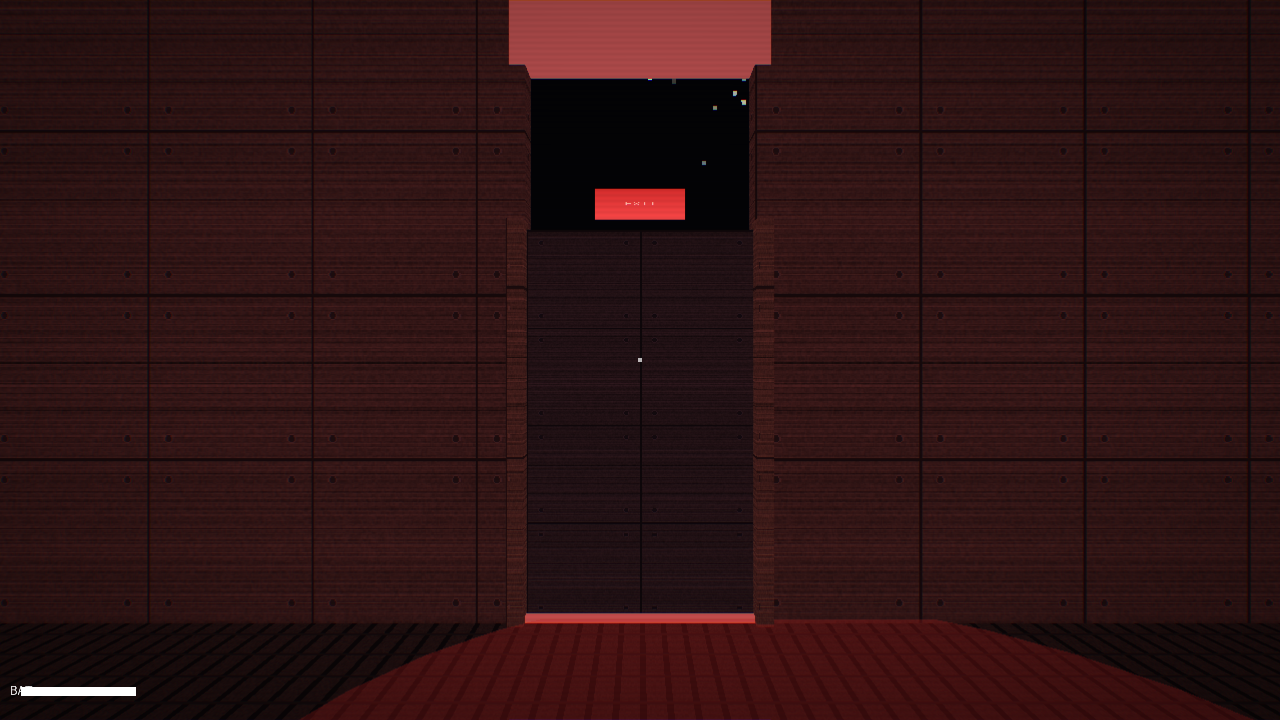
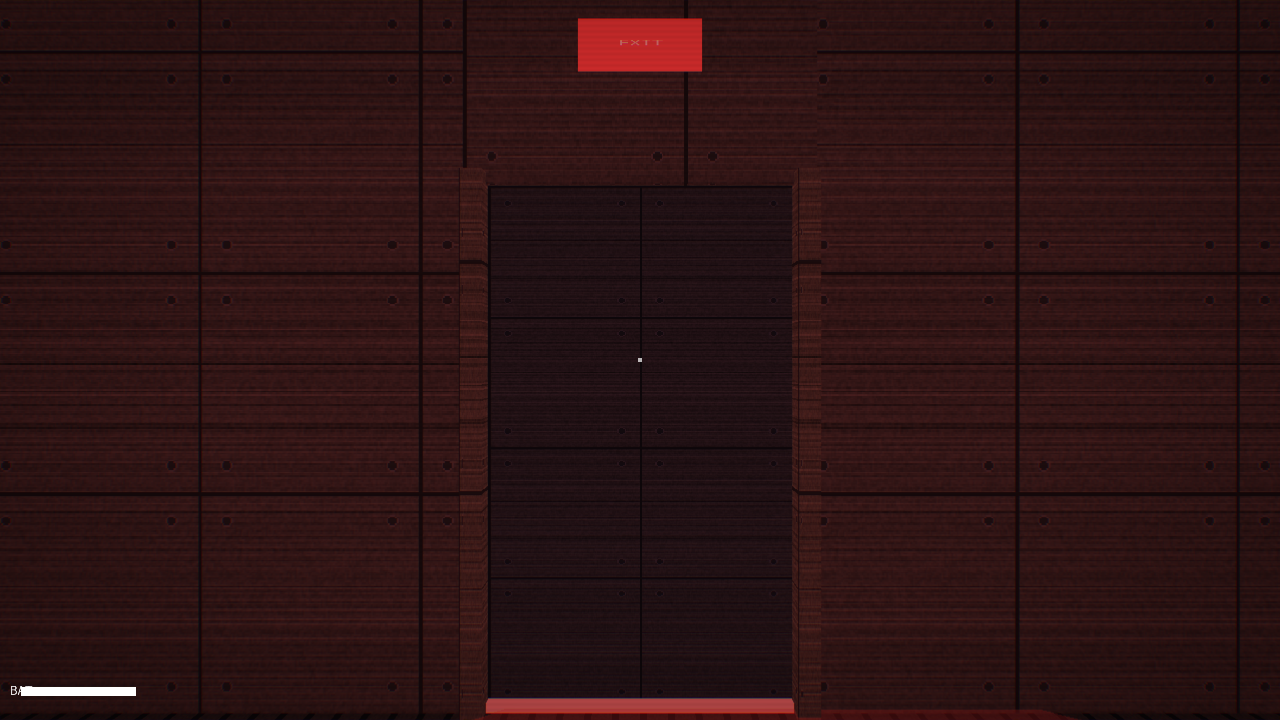
Fix non-collidable entry doors + Act 1 door gap
Issues found in this pass:

1. Act 1 exit door had a 1.0-unit-tall gap between the top of the
   door panel (y=2.4) and the bottom of the header (y=3.4).  The
   header was sized 0.6 units tall at y=3.7, leaving an open hole
   in the wall above the door.  Fixed by making the header span
   the full y=2.4..4.0 region (1.6 tall) so the wall is solid above
   the door.  The 'EXIT' plate moved up to y=3.0 so it sits on the
   visible header face.

2. The 'sealed' entry doors I added in Acts 2, 3, and 4 were
   visible-only, no collider.  Player could walk through them out
   of the level into nothing.  Added collider='box' to each entry
   door panel.

3. Locked cabin doors in Act 2 had a no-op 'Door X' interaction
   that did nothing when the player pressed E on the panel.  Now
   it surfaces an examine prompt directing the player to the wall
   keypad.

Smoke-tested all four acts and confirmed:
  - Act 1 -> Act 2 -> Act 3 -> Act 4 transitions all fire
  - Each scene rebuilds cleanly without entity-count drift
  - Act 1 screenshot now shows a complete door with no gap

diff --git a/scenes/act2_corridor.py b/scenes/act2_corridor.py
@@ -199,8 +199,17 @@ def _make_door(label, gap_x, gap_z, side, color_door, created,
             open_door()
         make_interactable(keypad, "Enter code", "keypad",
                           code=code, on_unlock=unlock_cb)
+
+        def hint_use_keypad():
+            """Tell the player to use the wall keypad."""
+            from systems.interaction import get_manager as _im
+            mgr = _im()
+            if mgr is not None:
+                mgr._examine(
+                    f"{label} cabin door locked.  Use the wall keypad.",
+                    3.0)
         make_interactable(door, "Door " + label, "trigger_event",
-                          callback=lambda: None)
+                          callback=hint_use_keypad)
     else:
         make_interactable(door, "Open " + label, "trigger_event",
                           callback=open_door)
@@ -319,14 +328,14 @@ def build(game):
                           color=color.rgb(60, 65, 75),
                           collider="box"))
     # Sealed door panel where the player entered from Act 1 (north-facing).
-    # Just a visual, non-interactive, so it looks like a real doorway rather
-    # than a gaping hole in the wall.
+    # Visible AND collidable so the player can't backtrack into the void.
     entry_door = Entity(model="cube",
                         scale=(1.4, 2.4, 0.10),
                         position=(0, 1.2, -6.05),
                         color=color.rgb(70, 70, 85),
                         texture=visuals.make_metal_panel(),
-                        texture_scale=(0.7, 1.2))
+                        texture_scale=(0.7, 1.2),
+                        collider="box")
     created.append(entry_door)
     # Inset detail on the player-facing side (+z)
     created.append(Entity(parent=entry_door, model="cube",

diff --git a/scenes/act1_cryo.py b/scenes/act1_cryo.py
@@ -210,11 +210,14 @@ def build(game):
                               texture=visuals.make_metal_panel(),
                               texture_scale=(north_seg_w / 2, 2),
                               collider="box"))
-    # Door frame caps above the opening
+    # Door header - fills the entire space from door top (y=2.4) up to the
+    # wall top (y=4.0) so there's no gap above the door.
     created.append(Entity(model="cube",
-                          scale=(north_gap + 0.2, 0.6, 0.2),
-                          position=(0, 3.7, 8),
+                          scale=(north_gap + 0.2, 1.6, 0.2),
+                          position=(0, 3.2, 8),
                           color=color.rgb(110, 90, 90),
+                          texture=visuals.make_metal_panel(),
+                          texture_scale=((north_gap + 0.2) / 2, 0.8),
                           collider="box"))
     # Visible jambs (side frames) on the room-side of the doorway
     for dx in (-0.75, 0.75):
@@ -224,10 +227,10 @@ def build(game):
                               color=color.rgb(140, 110, 100),
                               texture=visuals.make_metal_panel(),
                               texture_scale=(0.4, 1.2)))
-    # EXIT label above the door
+    # EXIT label - hangs on the room-facing face of the header
     exit_plate = Entity(model="cube",
-                        scale=(0.55, 0.18, 0.04),
-                        position=(0, 2.55, 7.92),
+                        scale=(0.55, 0.22, 0.04),
+                        position=(0, 3.0, 7.85),
                         color=color.rgb(220, 50, 50))
     created.append(exit_plate)
     Text(parent=exit_plate, text="EXIT",

diff --git a/scenes/act4_array.py b/scenes/act4_array.py
@@ -313,13 +313,15 @@ def build(game):
                           color=color.rgb(55, 60, 70),
                           collider="box"))
     # Sealed entry door at the south opening - the door the player walked
-    # through from Act 3.  Visible-only, non-interactive.
+    # through from Act 3.  Collidable so the player can't backtrack out of
+    # the array room into nothing.
     entry_door4 = Entity(model="cube",
                          scale=(ENTRY_W, 2.4, 0.10),
                          position=(0, 1.2, -rd / 2 + 0.05),
                          color=color.rgb(110, 80, 60),
                          texture=visuals.make_metal_panel(),
-                         texture_scale=(0.7, 1.2))
+                         texture_scale=(0.7, 1.2),
+                         collider="box")
     created.append(entry_door4)
     Entity(parent=entry_door4, model="cube",
            scale=(0.50, 0.55, 0.20),

diff --git a/scenes/act3_lab.py b/scenes/act3_lab.py
@@ -123,13 +123,14 @@ def build(game):
                           texture=visuals.make_metal_panel(),
                           texture_scale=(1.5, 1.5),
                           collider="box"))
-    # Sealed entry door panel
+    # Sealed entry door panel - collidable so the player can't back into nothing
     entry_door3 = Entity(model="cube",
                          scale=(1.4, 2.4, 0.10),
                          position=(0, 1.2, -14.0),
                          color=color.rgb(70, 70, 85),
                          texture=visuals.make_metal_panel(),
-                         texture_scale=(0.7, 1.2))
+                         texture_scale=(0.7, 1.2),
+                         collider="box")
     created.append(entry_door3)
     Entity(parent=entry_door3, model="cube",
            scale=(0.50, 0.55, 0.20),
